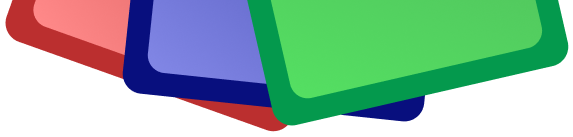
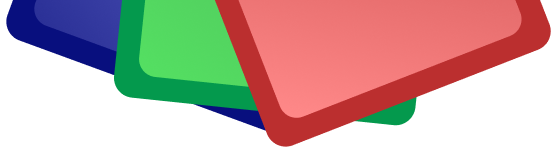
updated cards

diff --git a/src/components/Monitor.jsx b/src/components/Monitor.jsx
@@ -3,6 +3,8 @@ import ctgcompostpreview from "../assets/CTGCompostFinderPreview.jpg"
 import ctgshopifypreview from "../assets/CTGShopifyPreview.jpg"
 import cards from "../assets/cards.png"
 import Card from "./Card"
+import valLogo from "../assets/Valorant Logo.png"
+import ctgLogo from "../assets/CTG Logo.png"
 
 export default function Monitor() {
   const [revealed, setRevealed] = useState(false)
@@ -14,27 +16,15 @@ export default function Monitor() {
         <h1 className="w-full pt-8"></h1>
         <Card project={
           {
-            back: "Valorant Logo",
-            name: "Valorant Wiki",
-            link: 'https://darausz.github.io/valorant-wiki/',
-            github: 'https://github.com/darausz/valorant-wiki',
-            img: 'https://repository-images.githubusercontent.com/858335329/e1480ce8-9374-4b6c-9546-95a7319d9ebe',
-            desc: "A wiki for the popular 5v5 fps game Valorant display agents, abilities, maps, and weapons made with React utilizing RESTful APIs"
-          }}
-          front={"valoFront"}
-          back={"valoBack"}
-        />
-        <Card project={
-          {
             back: "CTG Logo",
             name: "Compost Finder",
             link: 'https://ctg-compost-finder.onrender.com/',
             img: ctgcompostpreview,
             desc: "Website allowing users to find composting solutions in their area developed with React and Supabase utilizing Leaflet for displaying location-based information on a map",
-            additional: "*Currently works with New York City, Boston, Chicago, Pittsburgh, Jacksonville, Seattle, and Omaha"
+            additional: "*Currently works with New York City, Boston, Chicago, Pittsburgh, Jacksonville, Seattle, and Omaha",
+            logo: ctgLogo
           }}
-          front={"cfFront"}
-          back={"cfFront"}
+          card={"cfFront"}
         />
         <Card project={
           {
@@ -42,10 +32,22 @@ export default function Monitor() {
             name: "Commit to Green",
             link: 'https://committogreen.com/',
             img: ctgshopifypreview,
-            desc: "Shopify webpage for compost bags alongside resources for composting and information about the company Commit to Green"
+            desc: "Shopify webpage for compost bags alongside resources for composting and information about the company Commit to Green",
+            logo: ctgLogo
           }}
-          front={"ctgFront"}
-          back={"ctgFront"}
+          card={"ctgFront"}
+        />
+        <Card project={
+          {
+            back: "Valorant Logo",
+            name: "Valorant Wiki",
+            link: 'https://darausz.github.io/valorant-wiki/',
+            github: 'https://github.com/darausz/valorant-wiki',
+            img: 'https://repository-images.githubusercontent.com/858335329/e1480ce8-9374-4b6c-9546-95a7319d9ebe',
+            desc: "A wiki for the popular 5v5 fps game Valorant display agents, abilities, maps, and weapons made with React utilizing RESTful APIs",
+            logo: valLogo
+          }}
+          card={"valoFront"}
         />
       </div>
       :

diff --git a/src/components/Card.jsx b/src/components/Card.jsx
@@ -2,7 +2,7 @@ import { useState, useEffect } from "react"
 import github from "../assets/GitHub Button.png"
 import go from "../assets/Share Button.png"
 
-export default function Card({ project, front, back }) {
+export default function Card({ project, card }) {
   const [disabled, setDisabled] = useState(true)
   const [floatIn, setFloatIn] = useState("float")
   const [hover, setHover] = useState(false)
@@ -32,7 +32,7 @@ export default function Card({ project, front, back }) {
 
   return (
     hover ?
-      <div className={`project ${front} ${hover ? "front flipped" : null} ${project.back == null ? "" : "bg-purple-300"}`} style={{ filter: "brightness(100%)" }}>
+      <div className={`project ${card} ${hover ? "front flipped" : null} ${project.back == null ? "" : "bg-purple-300"}`} style={{ filter: "brightness(100%)" }}>
         <div>
           <div className="project-name">{project.name}</div>
           <img className="preview h-40 object-cover" src={project.img}></img>
@@ -42,12 +42,13 @@ export default function Card({ project, front, back }) {
           {project.additional ? <div className="text-sm"><br />{project.additional}</div> : null}
         </div>
         <div className="share-buttons flex">
-          <div><a href={project.github} target="_blank"><img src={github}></img></a></div>
+          {project.github ? <div><a href={project.github} target="_blank"><img src={github}></img></a></div> : <div style={{"filter": "opacity: 50%" }}><a href={project.github} target="_blank"><img src={github}></img></a></div>}
           <div><a href={project.link} target="_blank"><img src={go}></img></a></div>
         </div>
       </div>
       :
-      <div className={`project ${floatIn} ${back} ${cardBack} bg-red-300`} style={{"pointer-events": `${disabled ? "none" : "auto"}`}} onMouseEnter={() => { swap() }}>
+      <div className={`project ${floatIn} ${card} ${cardBack} bg-red-300`} style={{"pointer-events": `${disabled ? "none" : "auto"}`}} onMouseEnter={() => { swap() }}>
+        <img className="logo" src={project.logo}></img>
       </div>
   )
 }

diff --git a/src/components/Bookshelf.jsx b/src/components/Bookshelf.jsx
@@ -48,7 +48,7 @@ export default function Bookshelf() {
     <div>
       <Back navigate={"/"}/>
       <div className="bookshelf bookshelfContents">
-        <div className="row bookshelfTop">
+        <div className="bookshelfTop">
           <img src={bookshelfLeft}></img>
           <div id="top" className="bookshelfCover" >
           </div>

diff --git a/vite.config.js b/vite.config.js
@@ -4,5 +4,5 @@ import react from '@vitejs/plugin-react-swc'
 // https://vitejs.dev/config/
 export default defineConfig({
   plugins: [react()],
-  base:"/personal-website/"
+  base:"/me/"
 })

diff --git a/src/App.css b/src/App.css
@@ -172,6 +172,12 @@
   justify-content: center;
 }
 
+.logo {
+  width: 4rem;
+  margin: auto;
+  padding-bottom: 5rem;
+}
+
 .preview {
   width: 20rem;
   margin: 0 auto 0 auto;
